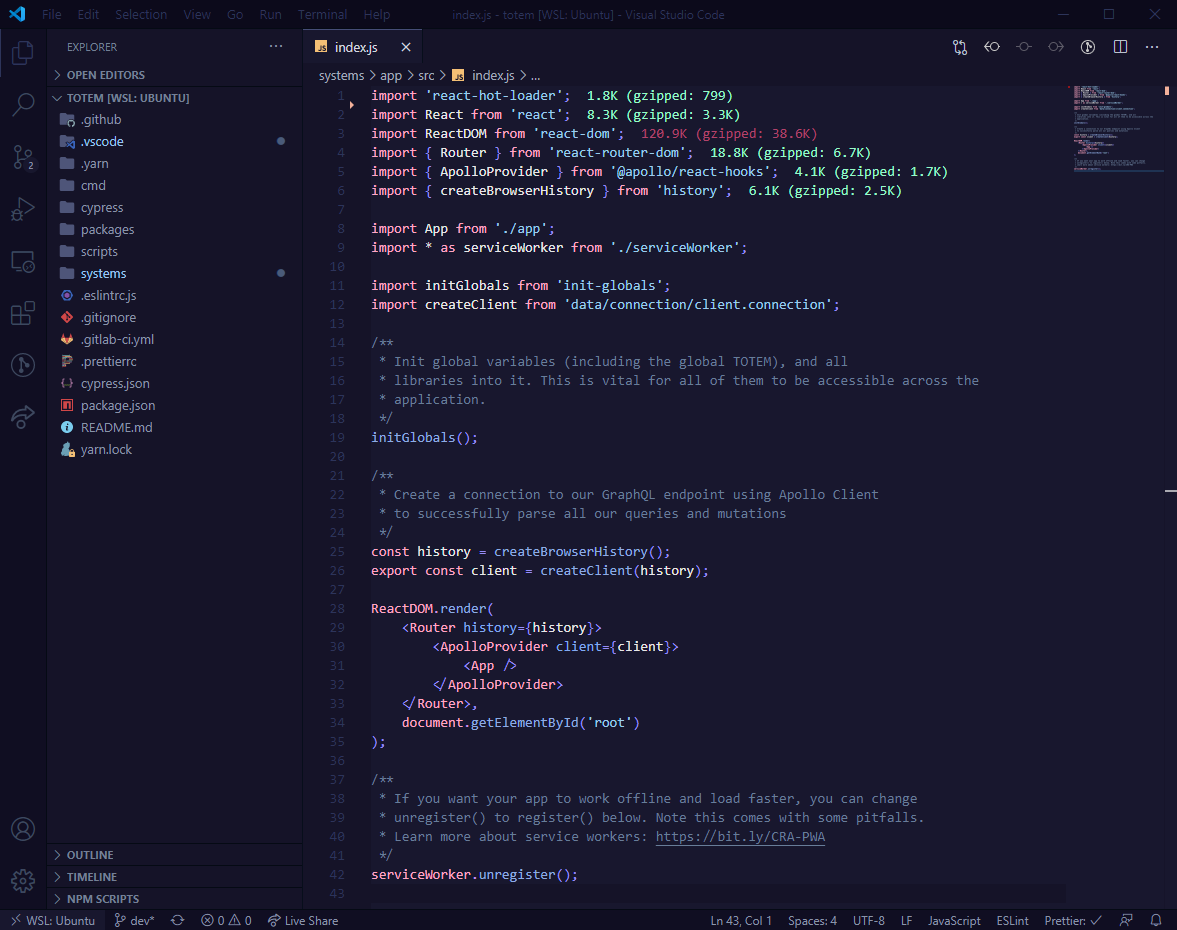
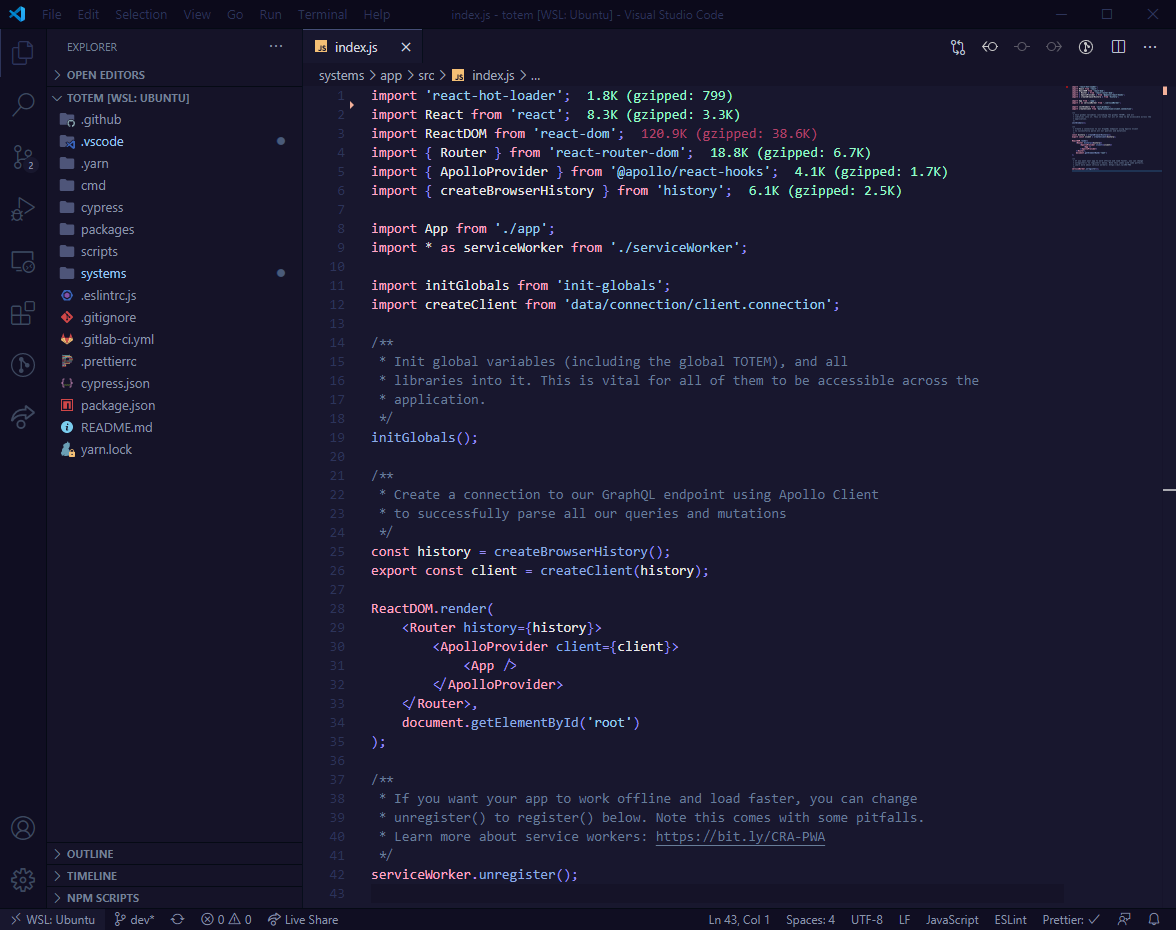
Update Minuit screenshot to reflect changes, patch update to 1.1.2

diff --git a/CHANGELOG.md b/CHANGELOG.md
@@ -4,6 +4,10 @@ All notable changes to the "minuit" extension will be documented in this file.
 
 Check [Keep a Changelog](http://keepachangelog.com/) for recommendations on how to structure this file.
 
+## [1.1.2]
+
+-   Update editor gutter background color to be the same as editor background
+
 ## [1.1.1]
 
 -   Update Minuit screenshot to hide files in sidebar
